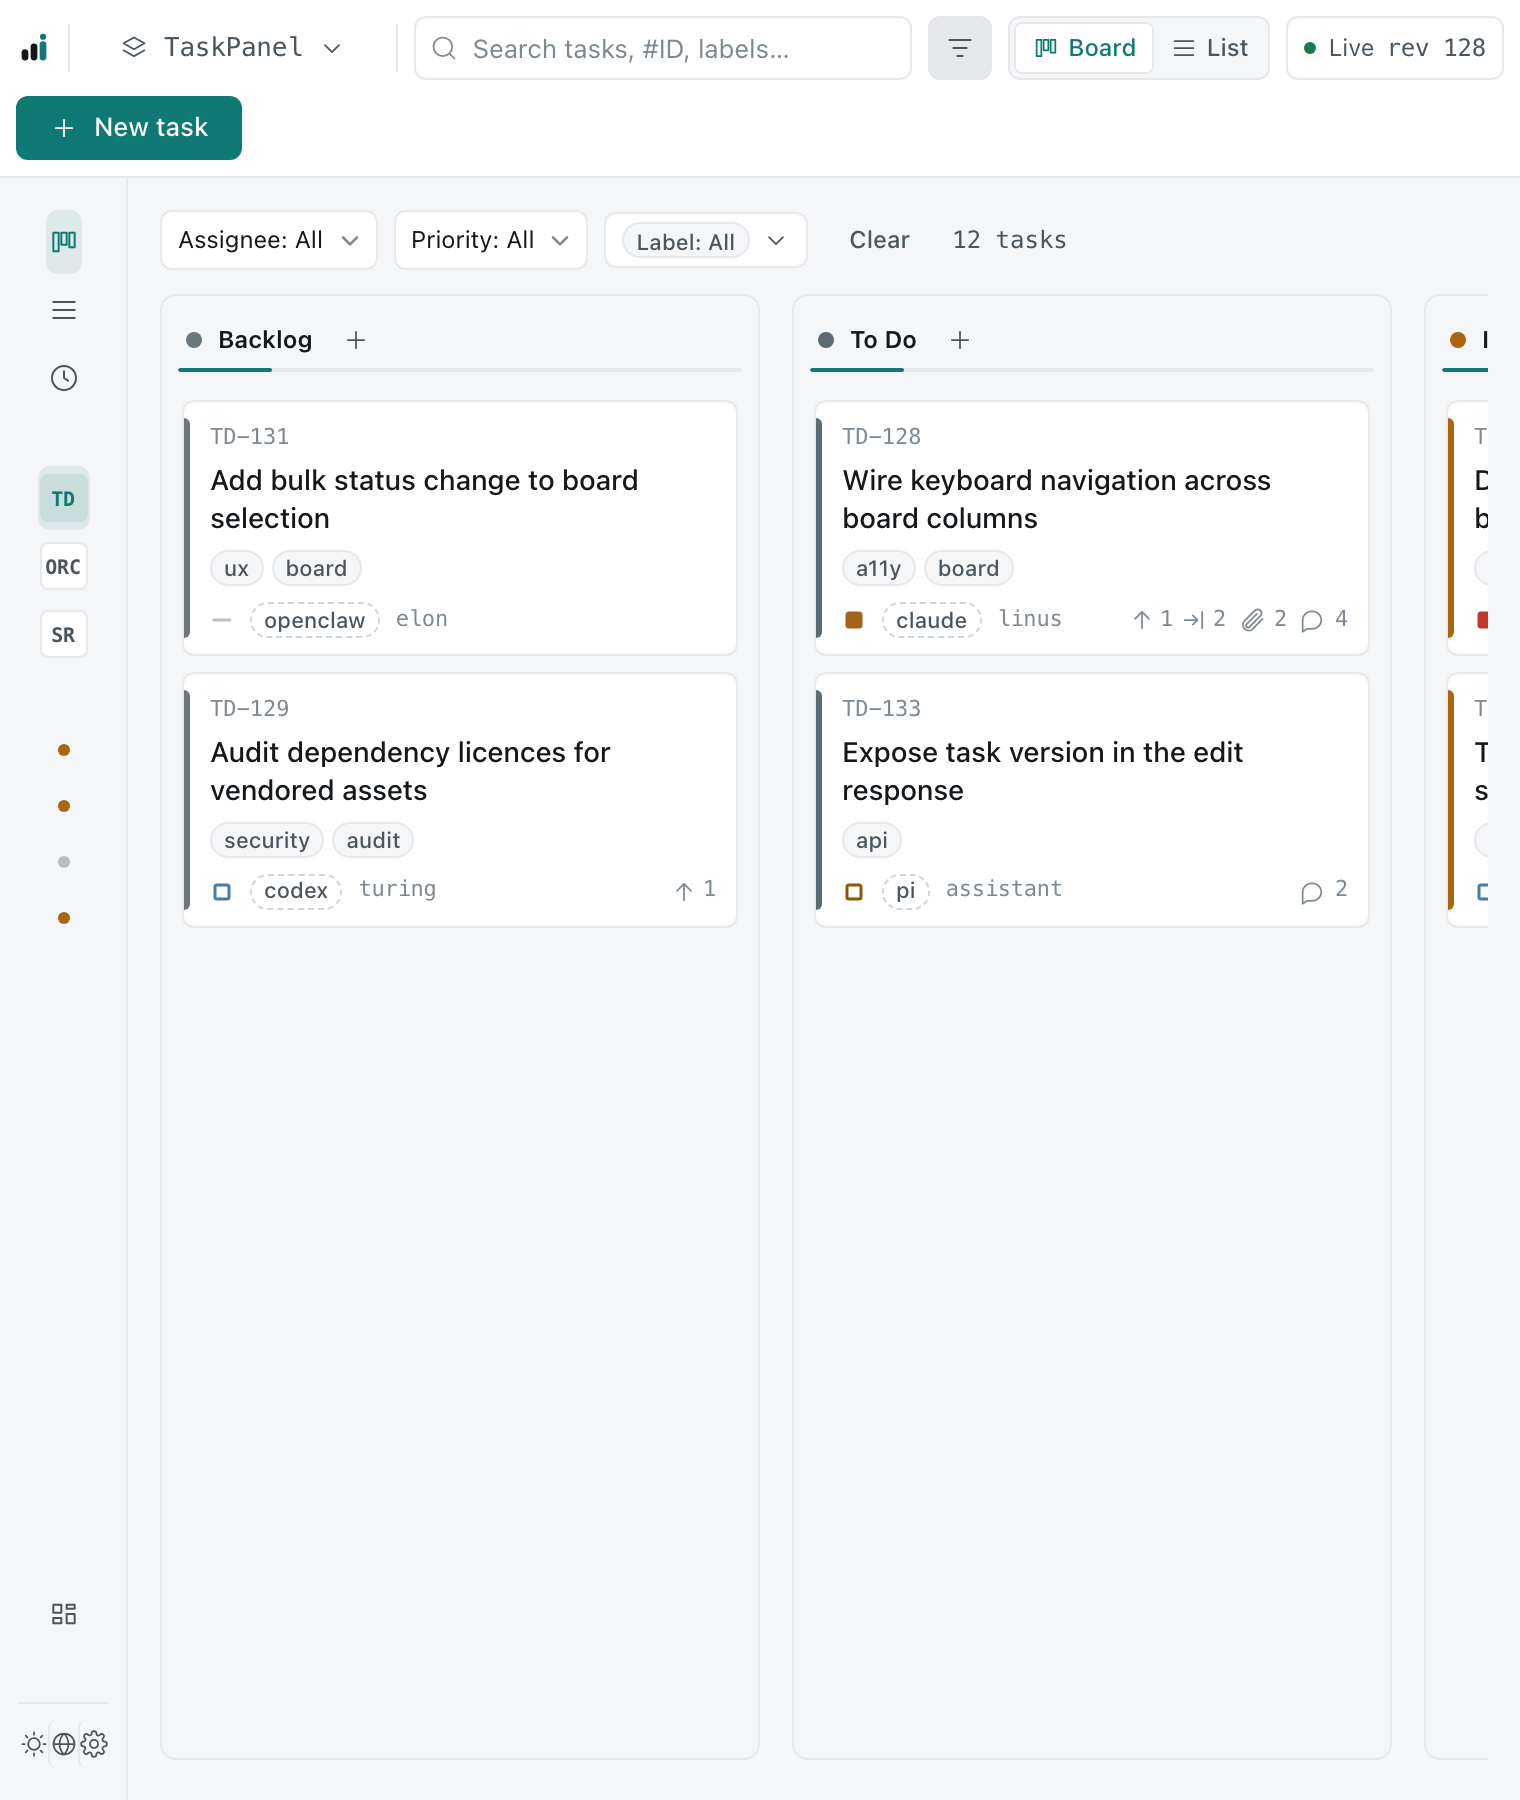
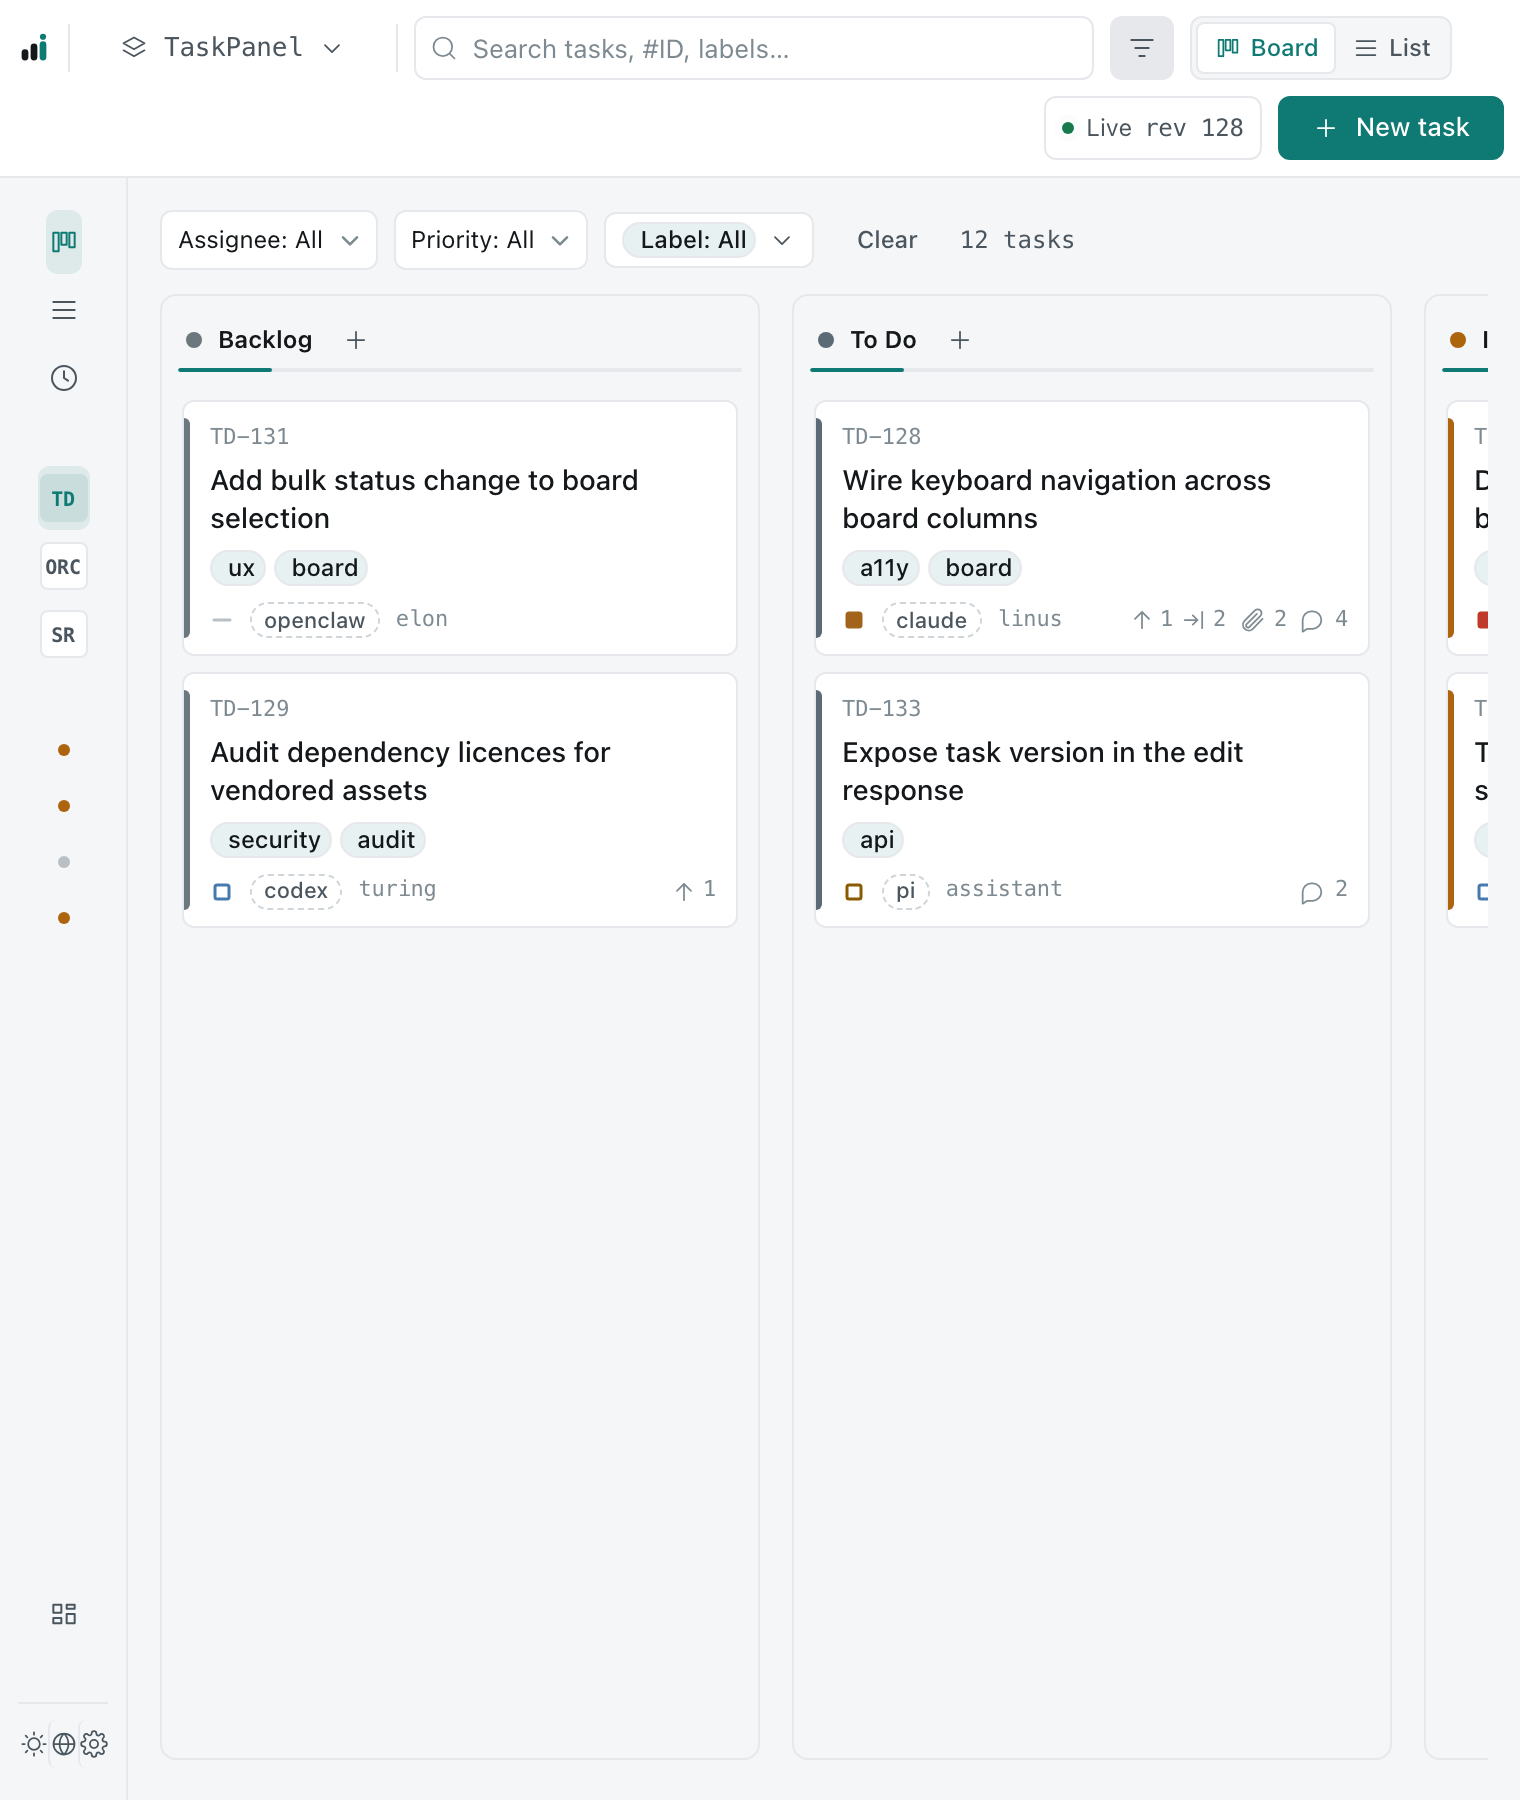
design(prototype): right-align top-bar New task action (flush to header right edge)
Wrap the top-bar right cluster ([data-revision] + [data-new-task]) in a single
.td-topbar-actions flex item with margin-left:auto so the primary action is flush to the
header's right padding edge (grouping was needed so the button stays flush right in the
760-779 wrap band instead of being stranded mid-row). Hooks/order and the [data-new-task]
create interaction unchanged. BLOCKS.md B02 updated; screenshots recaptured at
1512/1240/980/760/500. prototype-guard passes.

diff --git a/prototype/index.html b/prototype/index.html
@@ -116,20 +116,27 @@
           </button>
         </div>
 
-        <span class="td-revision" data-revision>
-          <span class="td-live-dot" aria-hidden="true"></span>
-          <span class="td-revision-text" data-i18n="topbar.live">Live</span>
-          <span class="td-mono" data-revision-label data-i18n-title="topbar.revision.title" title="Global revision">
-            rev <span data-revision-value>128</span>
+        <!-- Right cluster — pushed to the header's right padding edge by
+             `margin-left: auto` on `.td-topbar-actions`, so the primary
+             `+ New task` action is flush right. Kept as one flex item so the
+             revision readout and the button never split across the wrapped
+             rows of the 760–779px band. -->
+        <div class="td-topbar-actions">
+          <span class="td-revision" data-revision>
+            <span class="td-live-dot" aria-hidden="true"></span>
+            <span class="td-revision-text" data-i18n="topbar.live">Live</span>
+            <span class="td-mono" data-revision-label data-i18n-title="topbar.revision.title" title="Global revision">
+              rev <span data-revision-value>128</span>
+            </span>
           </span>
-        </span>
 
-        <button type="button" class="btn btn-primary gap-2" data-new-task>
-          <svg class="td-icon td-icon-sm" viewBox="0 0 24 24" aria-hidden="true" focusable="false">
-            <path d="M12 5v14M5 12h14" />
-          </svg>
-          <span class="td-new-task-label" data-i18n="topbar.newTask">New task</span>
-        </button>
+          <button type="button" class="btn btn-primary gap-2" data-new-task>
+            <svg class="td-icon td-icon-sm" viewBox="0 0 24 24" aria-hidden="true" focusable="false">
+              <path d="M12 5v14M5 12h14" />
+            </svg>
+            <span class="td-new-task-label" data-i18n="topbar.newTask">New task</span>
+          </button>
+        </div>
       </header>
 
       <!-- ===================================================================

diff --git a/prototype/src/input.css b/prototype/src/input.css
@@ -685,6 +685,20 @@ html[data-theme="dark"] {
     background-color: var(--color-td-surface);
   }
 
+  /* Right cluster (revision · New task) hugs the header's right padding edge.
+     The search grows to its 340px cap, then this auto margin absorbs the rest,
+     so the primary action is flush right with no trailing gap. The two are one
+     flex item (never split across a wrap), so the narrow bands that fold the
+     bar into two rows still keep the button flush right on its own row. */
+  .td-topbar-actions {
+    display: inline-flex;
+    align-items: center;
+    gap: 8px;
+    flex: none;
+    min-width: 0;
+    margin-left: auto;
+  }
+
   .td-live-dot {
     width: 6px;
     height: 6px;
@@ -3170,6 +3184,12 @@ html[data-theme="dark"] {
       gap: 6px;
       padding: 8px;
       row-gap: 8px;
+    }
+
+    /* the cluster follows the bar's tighter gap so the button keeps the same
+       right-edge rhythm as the rest of the row */
+    .td-topbar-actions {
+      gap: 6px;
     }
 
     /* the hairline separators are decoration; they cost a row at this width */

diff --git a/prototype/tw.css b/prototype/tw.css
@@ -3932,6 +3932,14 @@ html[data-theme="dark"] {
     border-radius: var(--r-md);
     background-color: var(--color-td-surface);
   }
+  .td-topbar-actions {
+    display: inline-flex;
+    align-items: center;
+    gap: 8px;
+    flex: none;
+    min-width: 0;
+    margin-left: auto;
+  }
   .td-live-dot {
     width: 6px;
     height: 6px;
@@ -5874,6 +5882,9 @@ html[data-theme="dark"] {
       gap: 6px;
       padding: 8px;
       row-gap: 8px;
+    }
+    .td-topbar-actions {
+      gap: 6px;
     }
     .td-topbar .td-divider-v {
       display: none;

diff --git a/prototype/BLOCKS.md b/prototype/BLOCKS.md
@@ -30,9 +30,17 @@ shipped document · **198 catalogue keys, `en` and `zh` in exact parity.**
 | View toggle | `[data-view-toggle]` → `[data-view="board" \| "list"]` (`aria-pressed`) |
 | Revision | `[data-revision]` → `[data-revision-label]`, `[data-revision-value]`, `.td-live-dot` |
 | Primary action | `[data-new-task]` |
+| Right cluster | `.td-topbar-actions` — wraps Revision + Primary action; `margin-left: auto` pushes it to the header's right padding edge |
 
-Right-end order is fixed: revision · primary action. There is **no user, account or
-sign-in element** anywhere in the bar.
+Right-end order is fixed: revision · primary action, grouped as one `.td-topbar-actions`
+cluster. The cluster is **right-aligned — flush to the header's right padding edge** (R5):
+the search grows to its 340px cap, then `margin-left: auto` on the cluster absorbs the rest,
+so `[data-new-task]` hugs the right edge at 1512 / 1240 / 980 / 500 with no trailing gap.
+The cluster is a single flex item, so the revision readout and the button never split across
+the two rows the bar folds into at 760–779px — there the button sits flush right on its own
+row. The `[data-new-task]` hook and its interaction are unchanged: a click still opens the
+create dialog (**B10**). There is **no user, account or sign-in element** anywhere
+in the bar.
 
 The theme and language controls **left the bar in review round v1.2** and became three
 direct controls in the sidebar footer in **v1.4** (B03 · theme switch / language menu /
